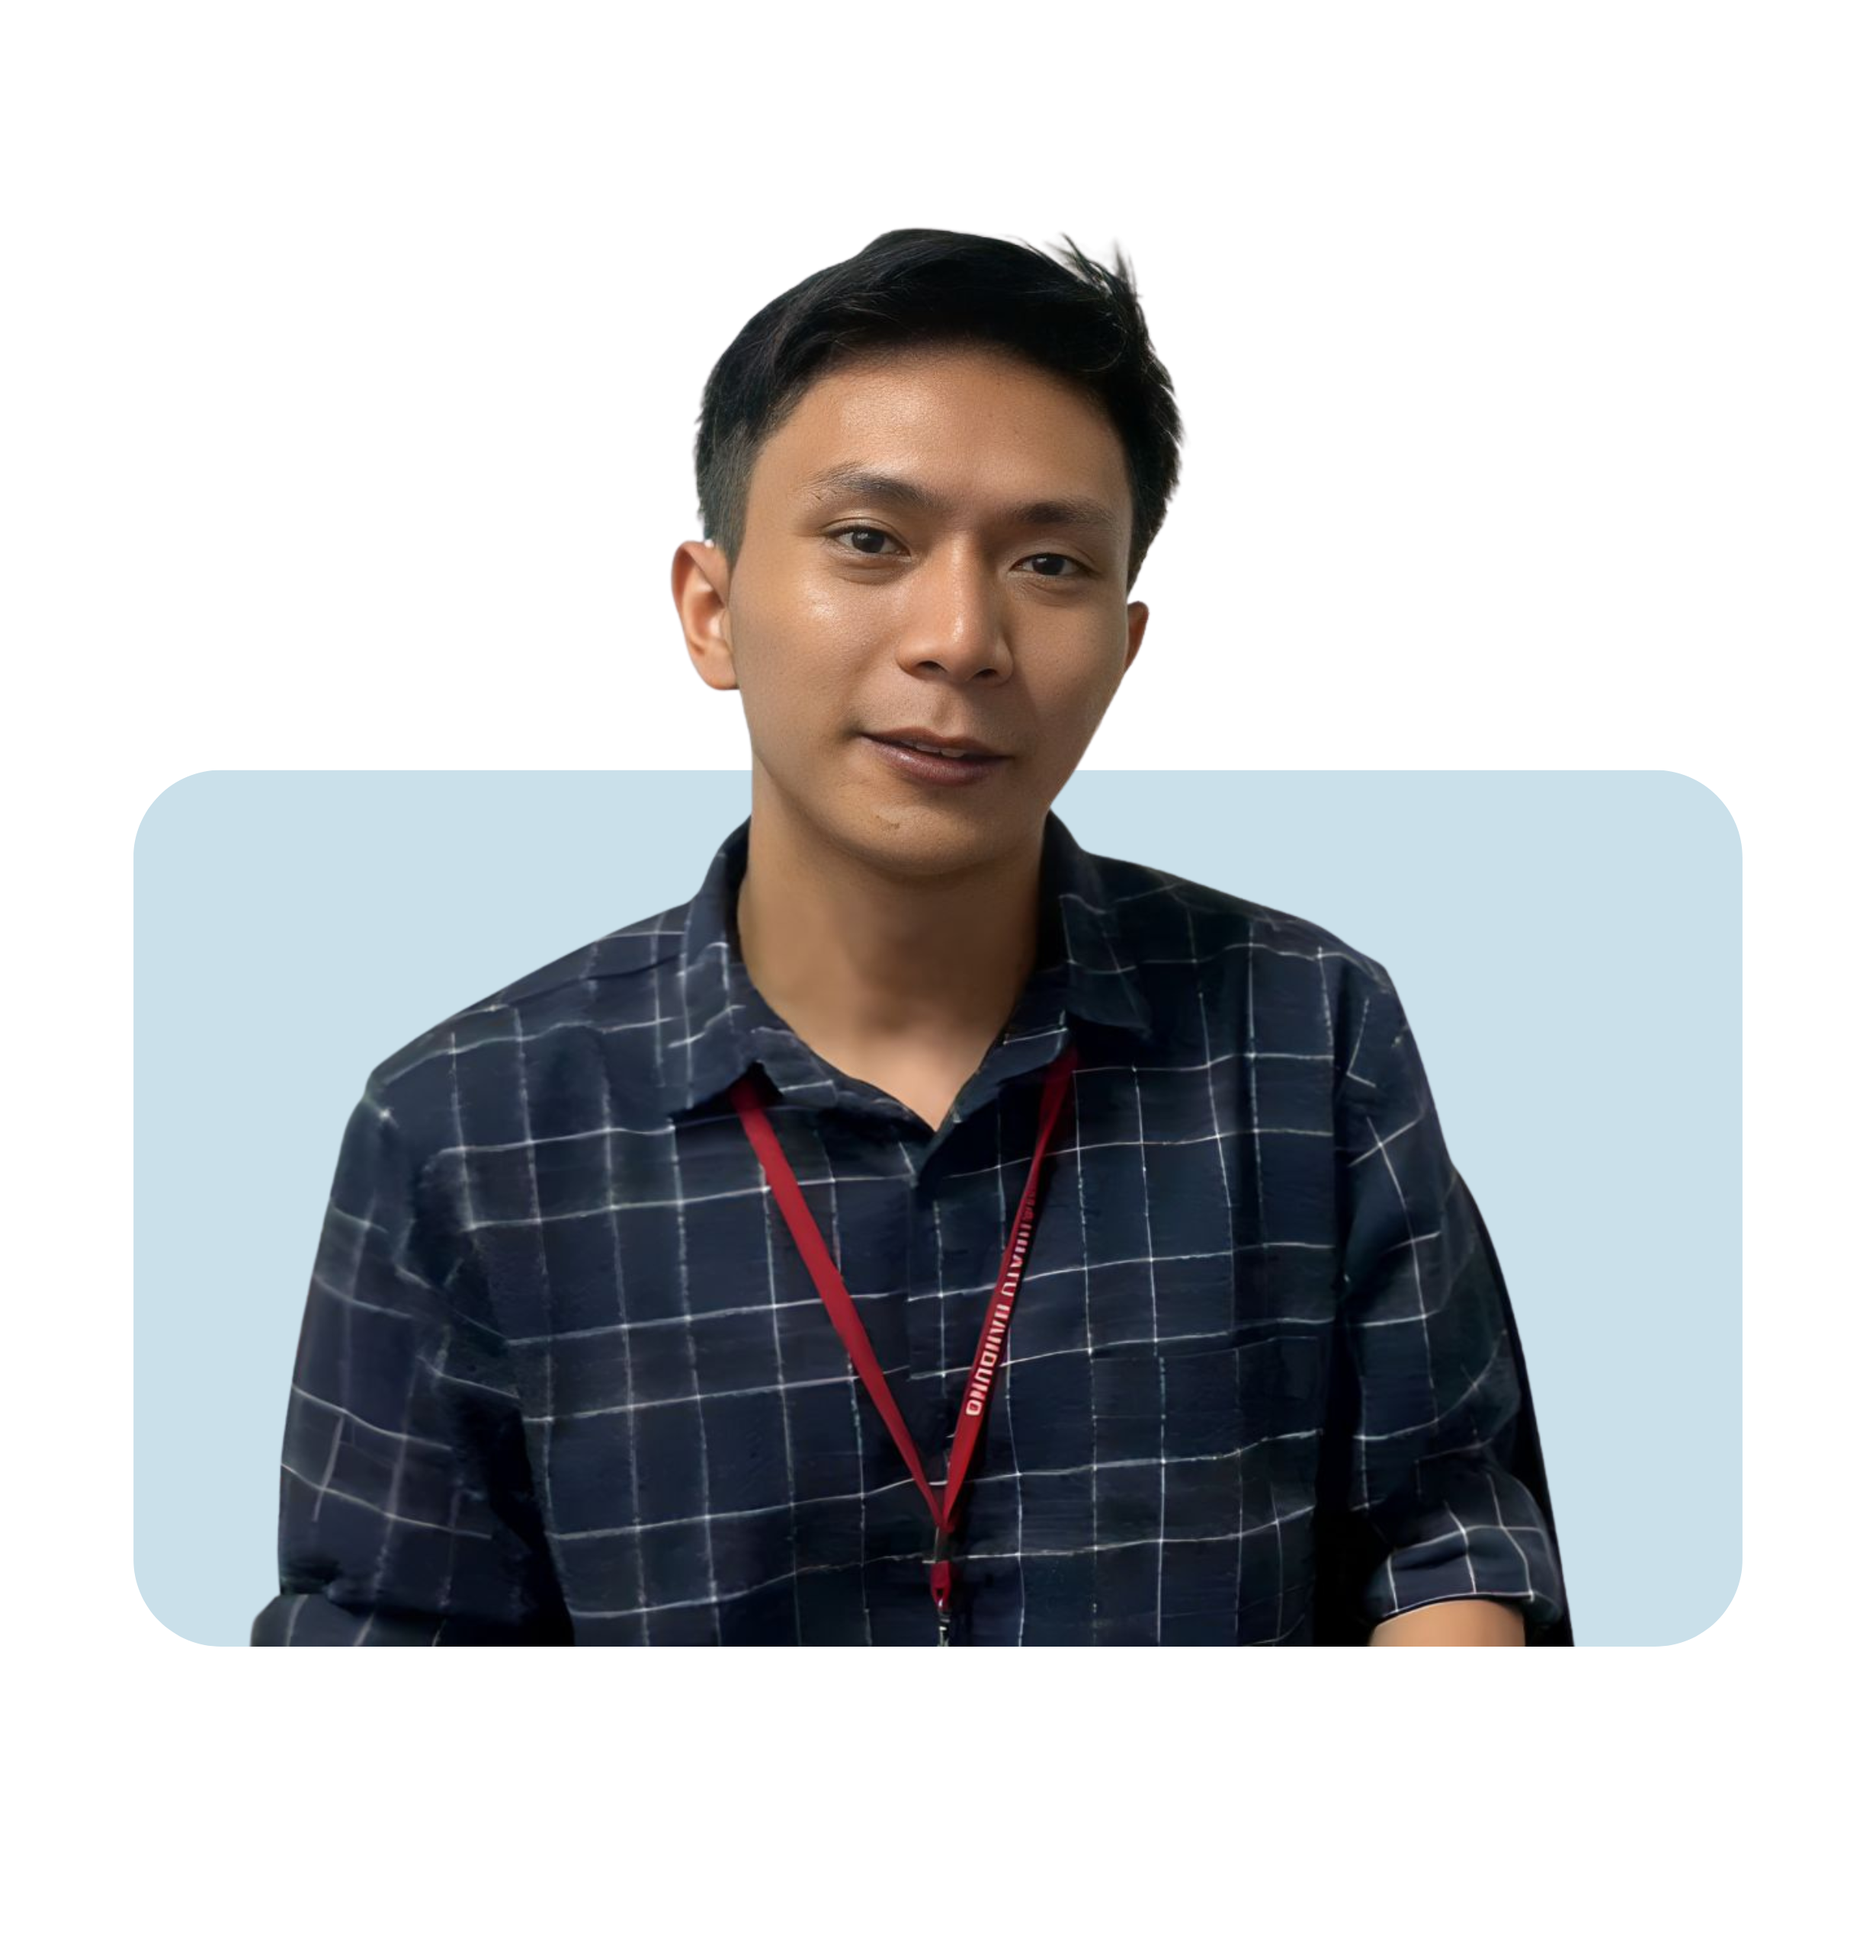
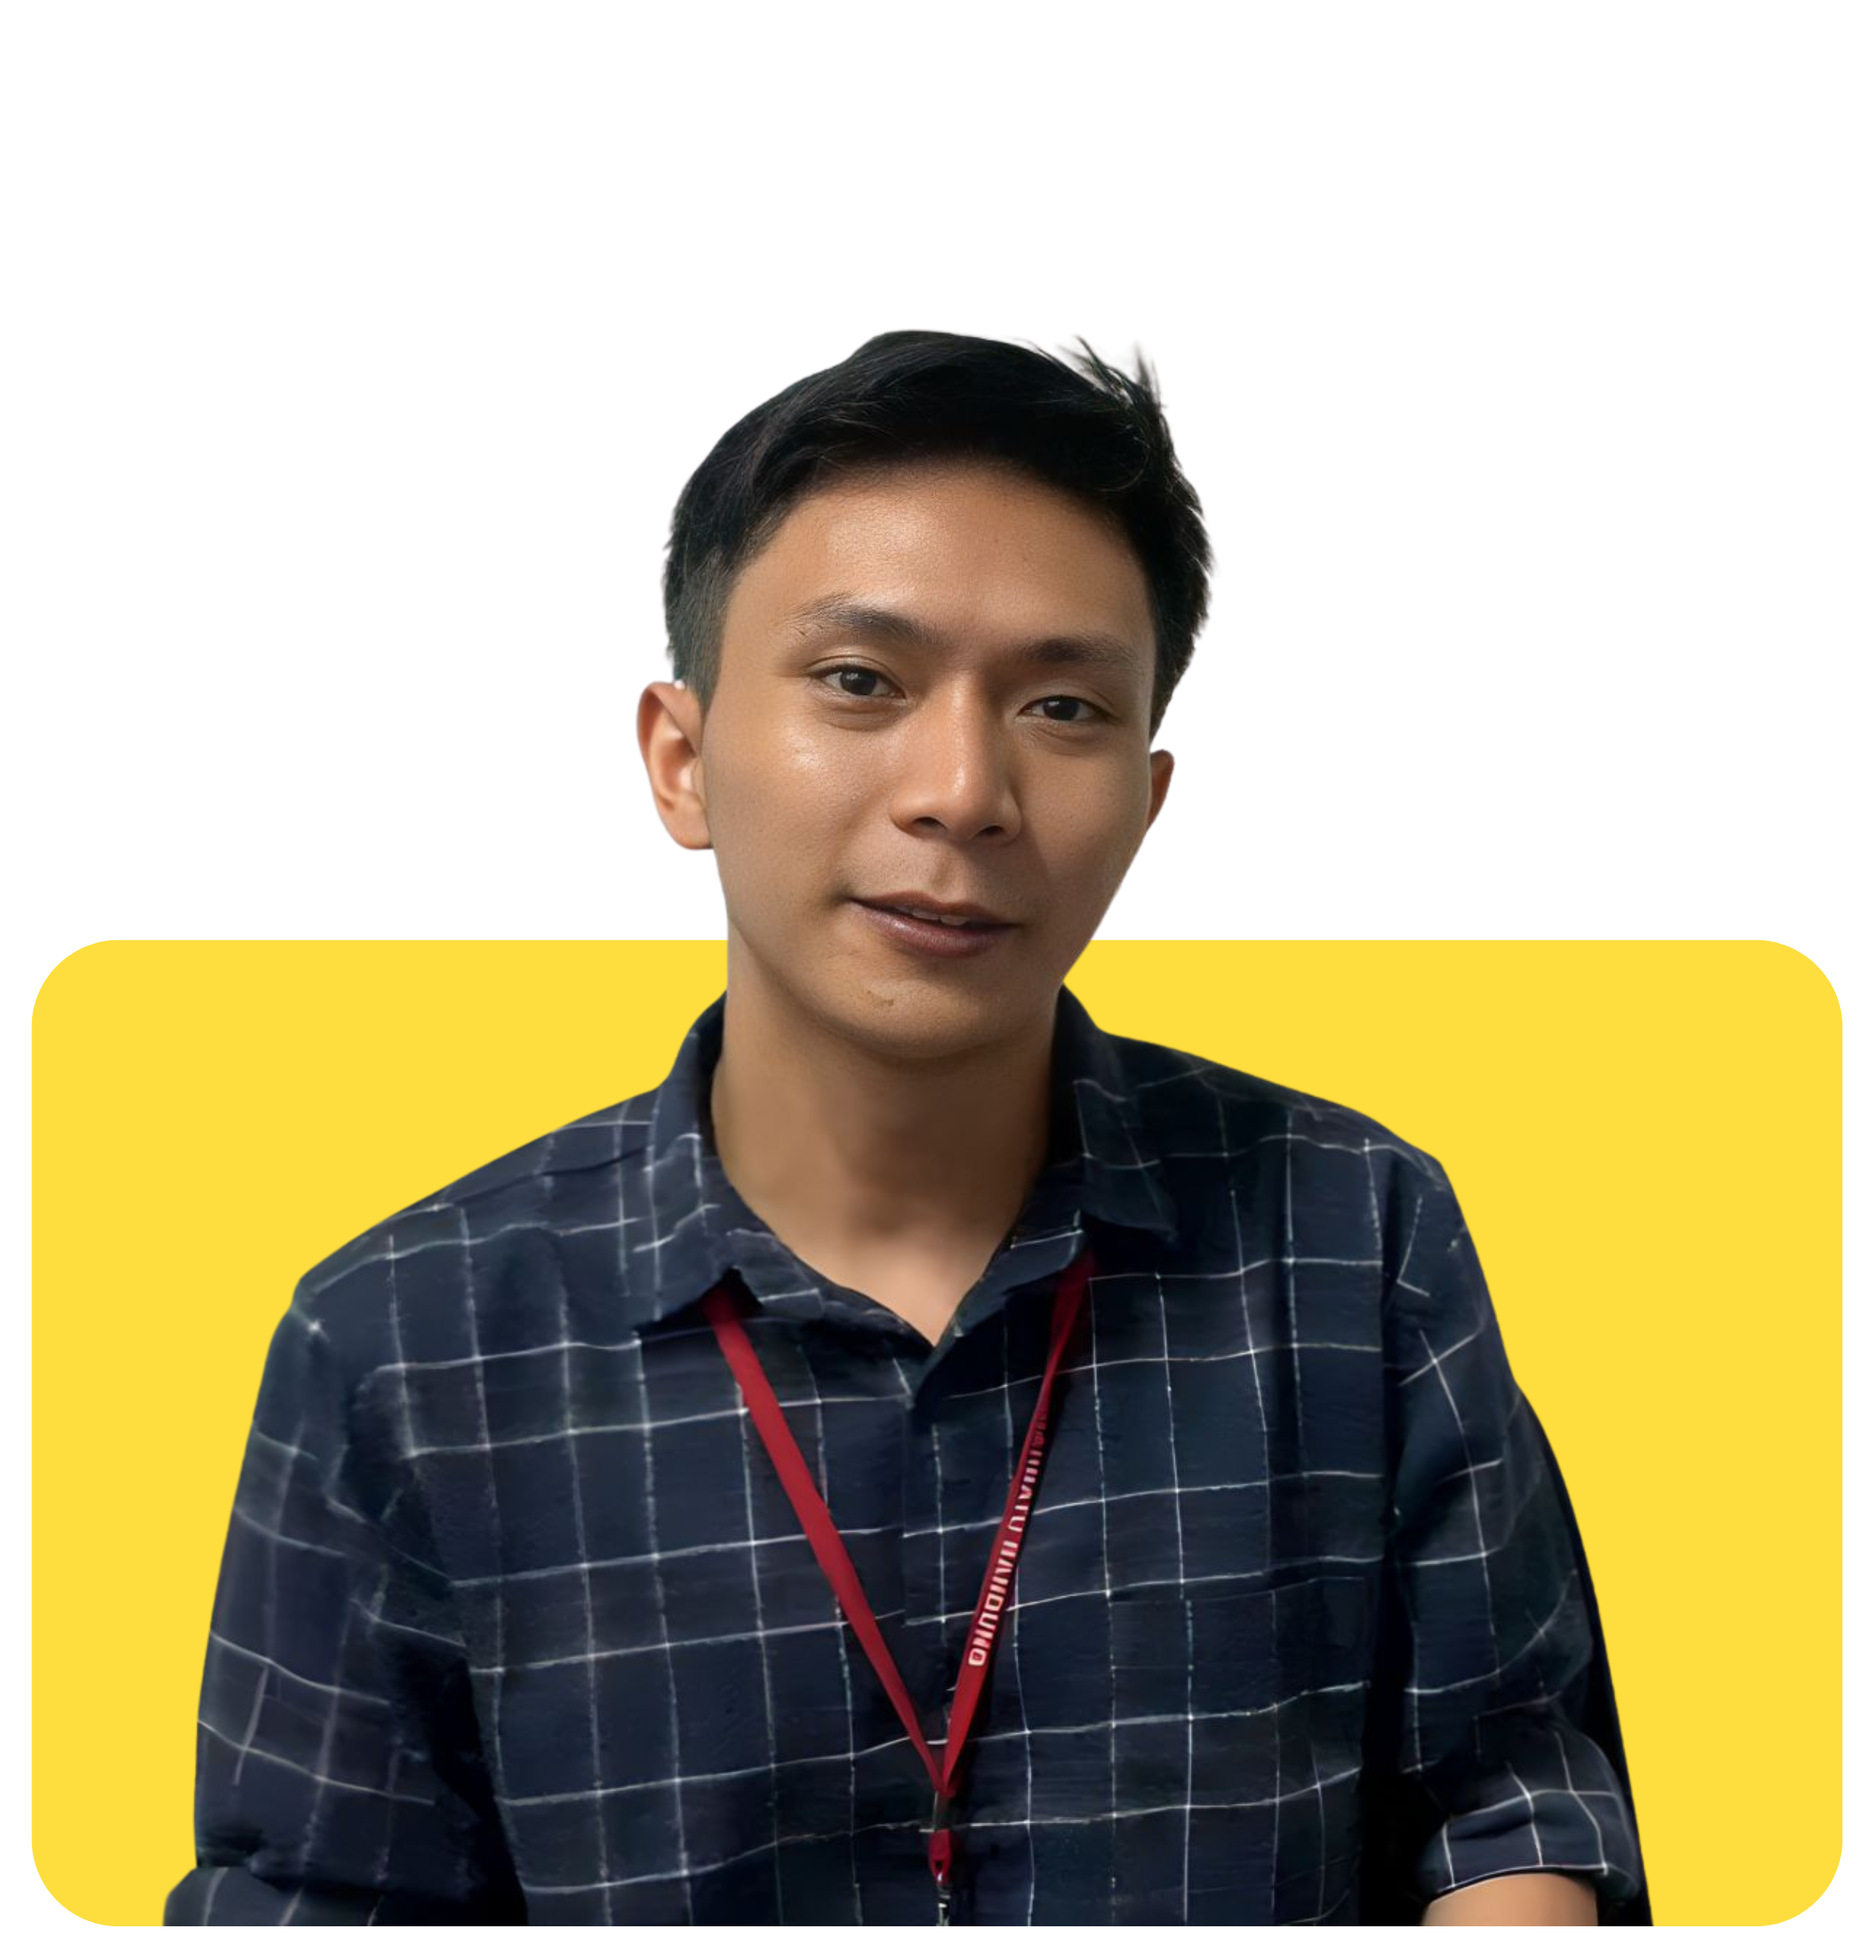
skill config 2

diff --git a/css/styles.css b/css/styles.css
@@ -17,12 +17,12 @@ html{
 /* CSS navigation */
 a{
     text-decoration: none;
-    color: #1c1e53;
+    color: #333;
     transition: color 0.3s ease;
 }
 
 a:hover{
-    color: #5e3bee !important;
+    color: #FEDE3E !important;
 }
 
 
@@ -78,8 +78,8 @@ nav button{
 }
 
 nav button:hover{
-    background-color: #5e3bee;
-    border-color: #5e3bee;
+    background-color: #FEDE3E;
+    border-color: #FEDE3E;
     color: #fff;
 }
 
@@ -107,8 +107,8 @@ button a:hover{
 }
 
 .main{
-    background-color: #deebee;
-    padding: 90px 85px;
+    background-color: #f6f7fc;
+    padding: 50px 85px;
     display: flex;
     align-items: center;
     justify-content: space-between;
@@ -128,7 +128,8 @@ button a:hover{
 }
 
 .main .left h3 span{
-    color: #5e3bee;
+    color: #FEDE3E;
+    stroke: black;
 }
 
 .main .left p{
@@ -141,7 +142,7 @@ button a:hover{
     margin-top: 40px;
     color: #fff;
     cursor: pointer;
-    background-color: #5e3bee;
+    background-color: #FEDE3E;
     padding: 14px 24px;
     border: 1px solid transparent;
     border-radius: 5px;
@@ -151,6 +152,88 @@ button a:hover{
     width: 500px;
 }
 /* end of home CSS */
+
+.skill-section {
+    text-align: center;
+}
+
+.skill-section h2 {
+    font-size: 2em;
+    margin-bottom: 1em;
+}
+
+.skill-section span {
+    color: #333;
+}
+
+.skill-container {
+    display: flex;
+    flex-wrap: wrap;
+    justify-content: center;
+    gap: 4em;
+}
+
+.skill-box {
+    background-color: #deebee;
+    width: 40%;
+    border-radius: 10px;
+    padding: 32px;
+    border-bottom: 4px solid transparent;
+    cursor: pointer;
+    transition: all 0.3s ease;
+}
+
+.skill-box:hover{ 
+    border-color: #FEDE3E;
+}
+
+.skill-box h3 {
+    margin-bottom: 1em;
+}
+
+.skill {
+    display: flex;
+    align-items: center;
+    margin-bottom: 1em;
+}
+
+.skill i {
+    font-size: 2em;
+    margin-right: 1em;
+    color: #333;
+}
+
+.skill div {
+    text-align: left;
+}
+
+.skill h4 {
+    margin: 0;
+    font-size: 1.2em;
+}
+
+.skill p {
+    margin: 0;
+    color: #777;
+}
+
+@media (max-width: 768px) {
+    .skill-container {
+        flex-direction: column;
+        align-items: center;
+    }
+
+    .skill-box {
+        max-width: 90%;
+    }
+}
+
+
+
+
+
+
+
 
 
 
